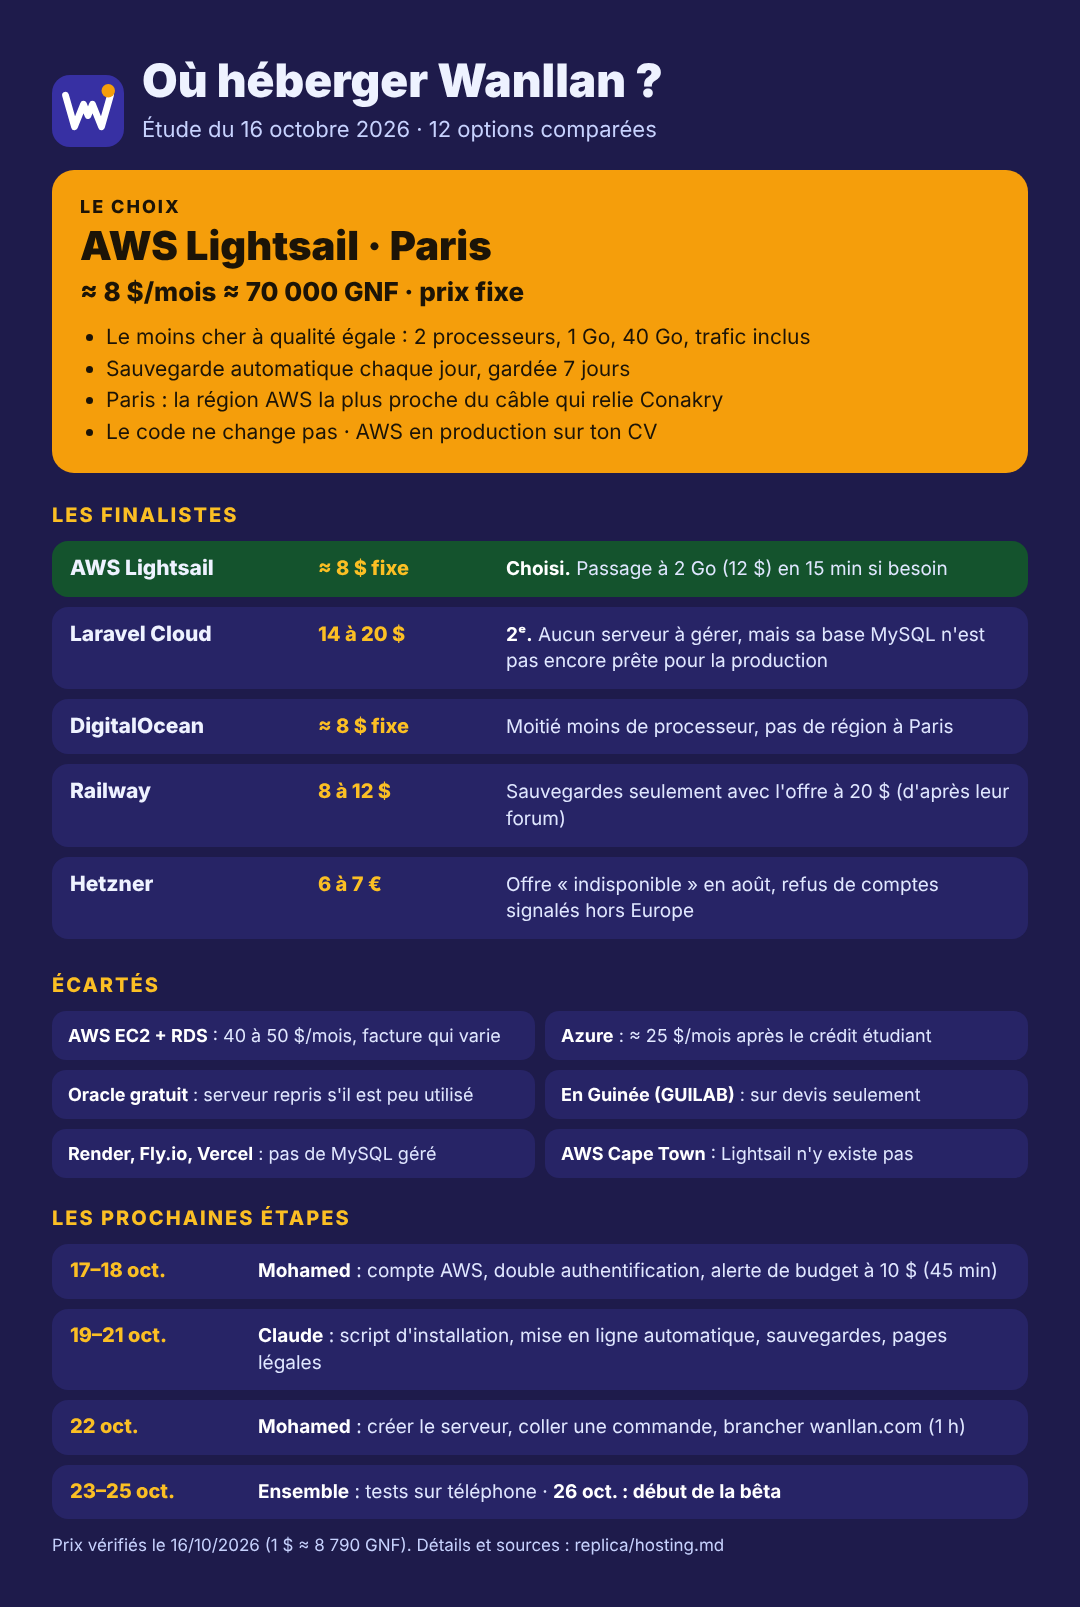
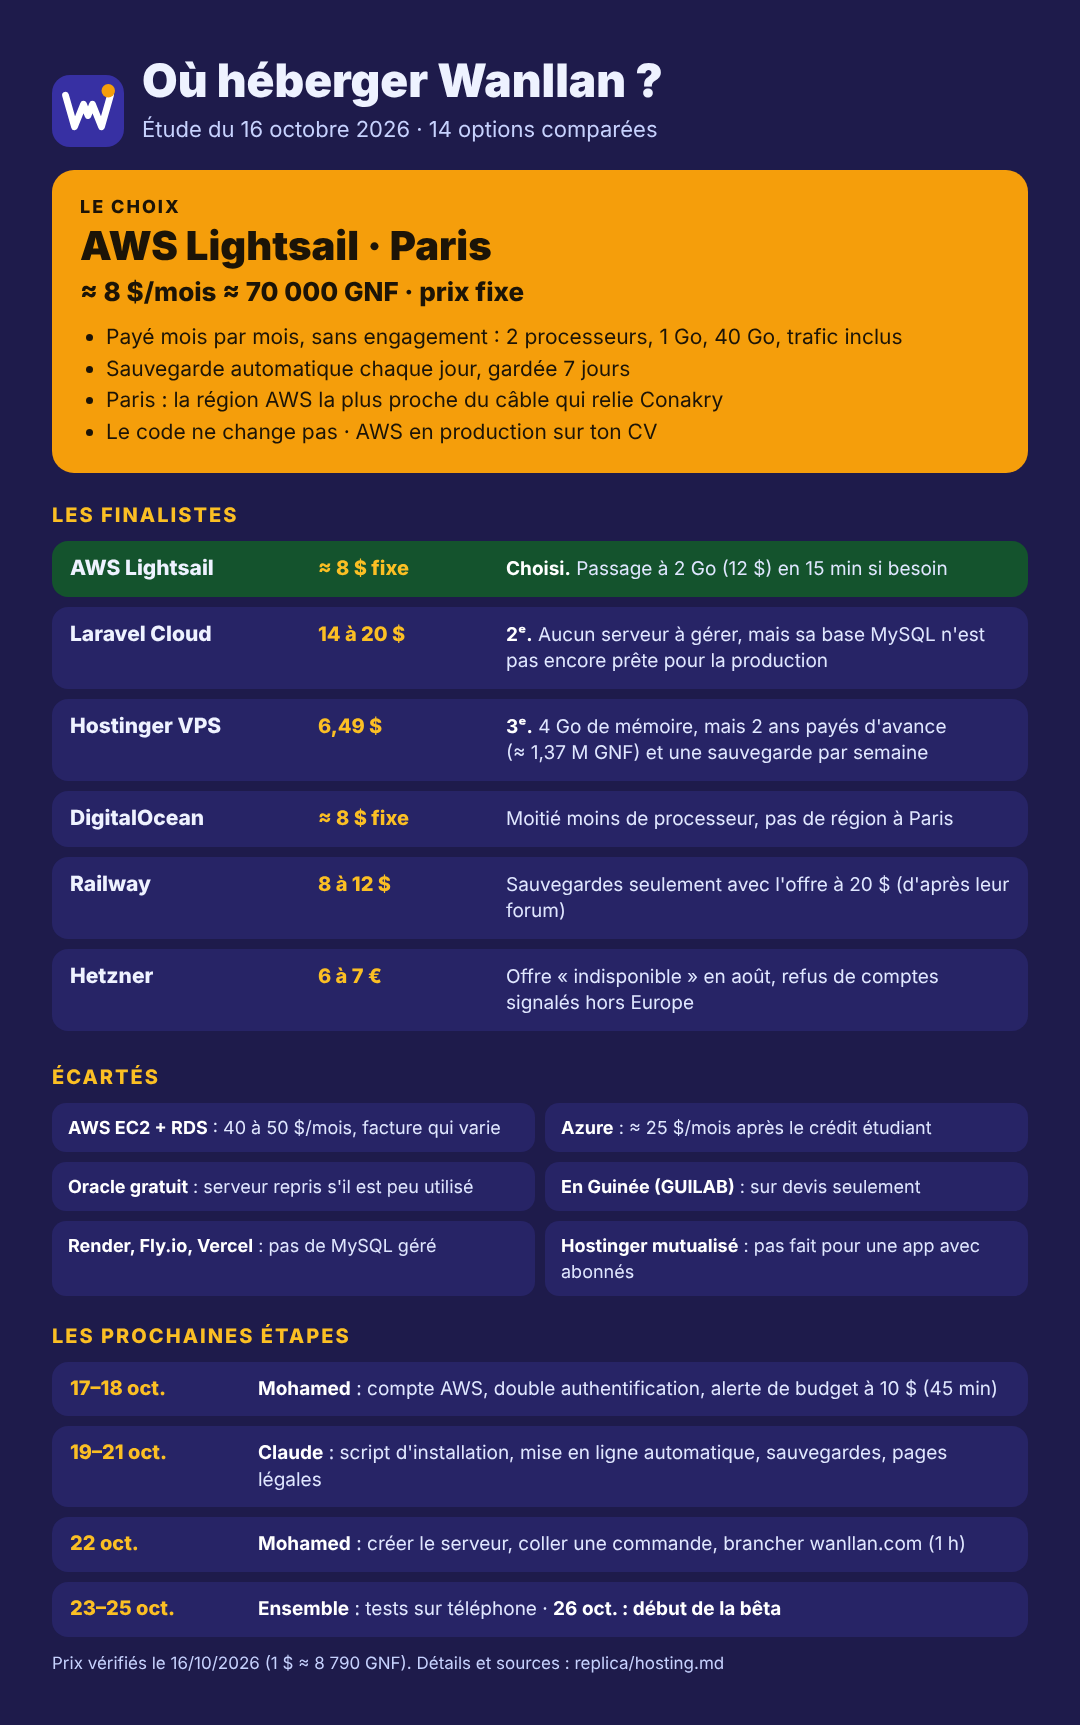
hosting: add Hostinger VPS and shared hosting to the comparison
Hostinger KVM 1 gives the most memory per dollar but needs 24 months
paid upfront and only weekly backups; Lightsail stays the choice for
now, Hostinger KVM 2 noted as the option once Wanllan is validated.

Claude-Session: https://claude.ai/code/session_01QK2U4wKdDEESVGjkep23Ng

diff --git a/replica/hosting.md b/replica/hosting.md
@@ -28,6 +28,30 @@ Recherches faites le 16 octobre 2026. Les prix changent : à revérifier le jour
 | Risque principal | panne non surveillée | idem, sans Paris | coût qui varie, base pas prête, code à adapter (fichiers) | sauvegardes payantes | offre affichée « indisponible » en août 2026, deux hausses de prix en 2026, comptes refusés hors Europe signalés |
 | Pour le CV de Mohamed | **AWS + Linux en production** | Linux | — | — | Linux |
 
+## Et Hostinger ? (ajouté le 16 octobre, à la demande de Mohamed)
+
+**Hostinger VPS** : un serveur Linux comme Lightsail, avec un centre de données en France (Paris, annoncé en 2023). C'est **le meilleur rapport puissance/prix**, mais seulement en payant d'avance.
+
+| | AWS Lightsail 1 Go | Hostinger KVM 1 |
+| --- | --- | --- |
+| Serveur | 2 processeurs, 1 Go, 40 Go | 1 processeur, **4 Go**, 50 Go NVMe |
+| Paiement | **chaque mois**, ≈ 8 à 9 $ avec les sauvegardes | **24 mois d'avance** : ≈ 156 $ (≈ 1 370 000 GNF) d'un coup, soit 6,49 $/mois |
+| Sans engagement | 7 $/mois | ≈ 13,99 $/mois |
+| Au renouvellement | même prix | 11,99 $/mois |
+| Sur 2 ans | ≈ 204 $ sans crédit AWS, beaucoup moins si les crédits couvrent Lightsail | ≈ 156 $ |
+| Sauvegardes | chaque jour, 7 gardées, 1 à 2 $/mois | **chaque semaine** ; chaque jour = option payante (6 à 12 $/mois selon les sources) |
+| Arrêter | quand on veut | remboursé seulement pendant les 30 premiers jours |
+| Plus | AWS sur le CV, crédits de bienvenue possibles | 4 fois plus de mémoire, site et support en français |
+
+Le KVM 2 (2 processeurs, 8 Go, 100 Go) coûte 8,99 $/mois sur 24 mois (≈ 216 $ d'avance) et 14,99 $/mois au renouvellement.
+
+**Verdict : Lightsail reste le choix pour Wanllan aujourd'hui.**
+- Le produit n'est pas encore validé : payer 2 ans d'avance (≈ 1,37 million de GNF) avant la bêta est un pari. Lightsail se paie mois par mois et s'arrête quand on veut.
+- Une sauvegarde par semaine, c'est jusqu'à 7 jours de commandes perdues en cas de panne. Les sauvegardes quotidiennes de Lightsail coûtent 1 à 2 $ ; celles de Hostinger effacent son avance de prix.
+- Si les crédits AWS couvrent Lightsail, il revient moins cher que Hostinger sur 2 ans. Sans crédit, Hostinger KVM 1 économise environ 50 $ sur 2 ans.
+
+**Hostinger hébergement web (mutualisé)** : écarté. Pas d'accès administrateur, ressources partagées avec d'autres sites et limitées par une règle d'usage raisonnable, versions de PHP différentes entre le site et la ligne de commande qui cassent Composer. Bien pour un site vitrine ou WordPress, pas pour une app avec des commerçants abonnés.
+
 ## Écartés tout de suite
 
 - **AWS EC2 + RDS + répartiteur de charge** : l'AWS des grandes entreprises. Facilement 40 à 50 $/mois, une facture qui change chaque mois, beaucoup de réglages.
@@ -76,6 +100,7 @@ Le nom de domaine est en plus (environ 10 à 15 $ par an pour un .com).
 - Le serveur sature (mémoire ou processeur au-dessus de 80 % plusieurs jours) : passer au serveur de 2 Go.
 - Plus de 200 boutiques actives : sortir la base de données sur son propre serveur.
 - Mohamed ne veut plus gérer de serveur : Laravel Cloud, si sa base MySQL est prête pour la production.
+- Wanllan est validé (vers février 2027) et Mohamed veut regrouper plusieurs projets sur un gros serveur pas cher : Hostinger KVM 2 payé 2 ans d'avance, avec une copie de la base chaque nuit hors du serveur.
 - Une loi impose de garder les données en Guinée : reprendre contact avec GUILAB.
 
 ## Sources (lues le 16 octobre 2026)
@@ -91,6 +116,9 @@ Le nom de domaine est en plus (environ 10 à 15 $ par an pour un .com).
 - Railway, prix (sites tiers) : https://temps.sh/blog/railway-pricing-2026 ; sauvegardes : https://docs.railway.com/volumes/backups et https://station.railway.com/questions/hard-limit-resource-usage-backups-2ca70e7b
 - DigitalOcean, prix (sites tiers) : https://www.temperstack.com/plans/digitalocean/ et https://diyai.io/ai-tools/hosting/digitalocean-pricing/
 - Hetzner, hausses de 2026 : https://wz-it.com/en/blog/hetzner-price-increase-june-2026-cpx-ccx-alternatives/ et https://findstack.com/resources/hetzner-price-increase-2026 ; comptes refusés : https://lowendtalk.com/discussion/comment/2879718/
+- Hostinger, prix des VPS (sites tiers) : https://hereflowai.com/hostinger-vps-pricing-2026/ , https://bearhost.com/blogs/hostinger-pricing , sans engagement : https://vpsbenchmarks.com/hosters/hostinger
+- Hostinger, centre de données de Paris : https://www.hostinger.com/blog/?p=4440 ; sauvegardes des VPS : https://www.hostinger.com/support/1583232-how-to-back-up-or-restore-a-vps/ et https://hostadvice.com/blog/web-hosting/hostinger-backups/
+- Hostinger mutualisé et Laravel (versions de PHP) : https://neura.market/directories/copilot/blog/devto-3792034 ; règle d'usage : https://www.websiteplanet.com/uk/blog/найкращих-веб-хостингів-для-laravel/
 - Azure for Students : https://learn.microsoft.com/en-us/azure/education-hub/faq
 - Oracle, ressources gratuites : https://docs.oracle.com/en-us/iaas/Content/FreeTier/resourceref.htm
 - GUILAB : https://www.datacentermap.com/guinea/conakry/guilab-data-center/
